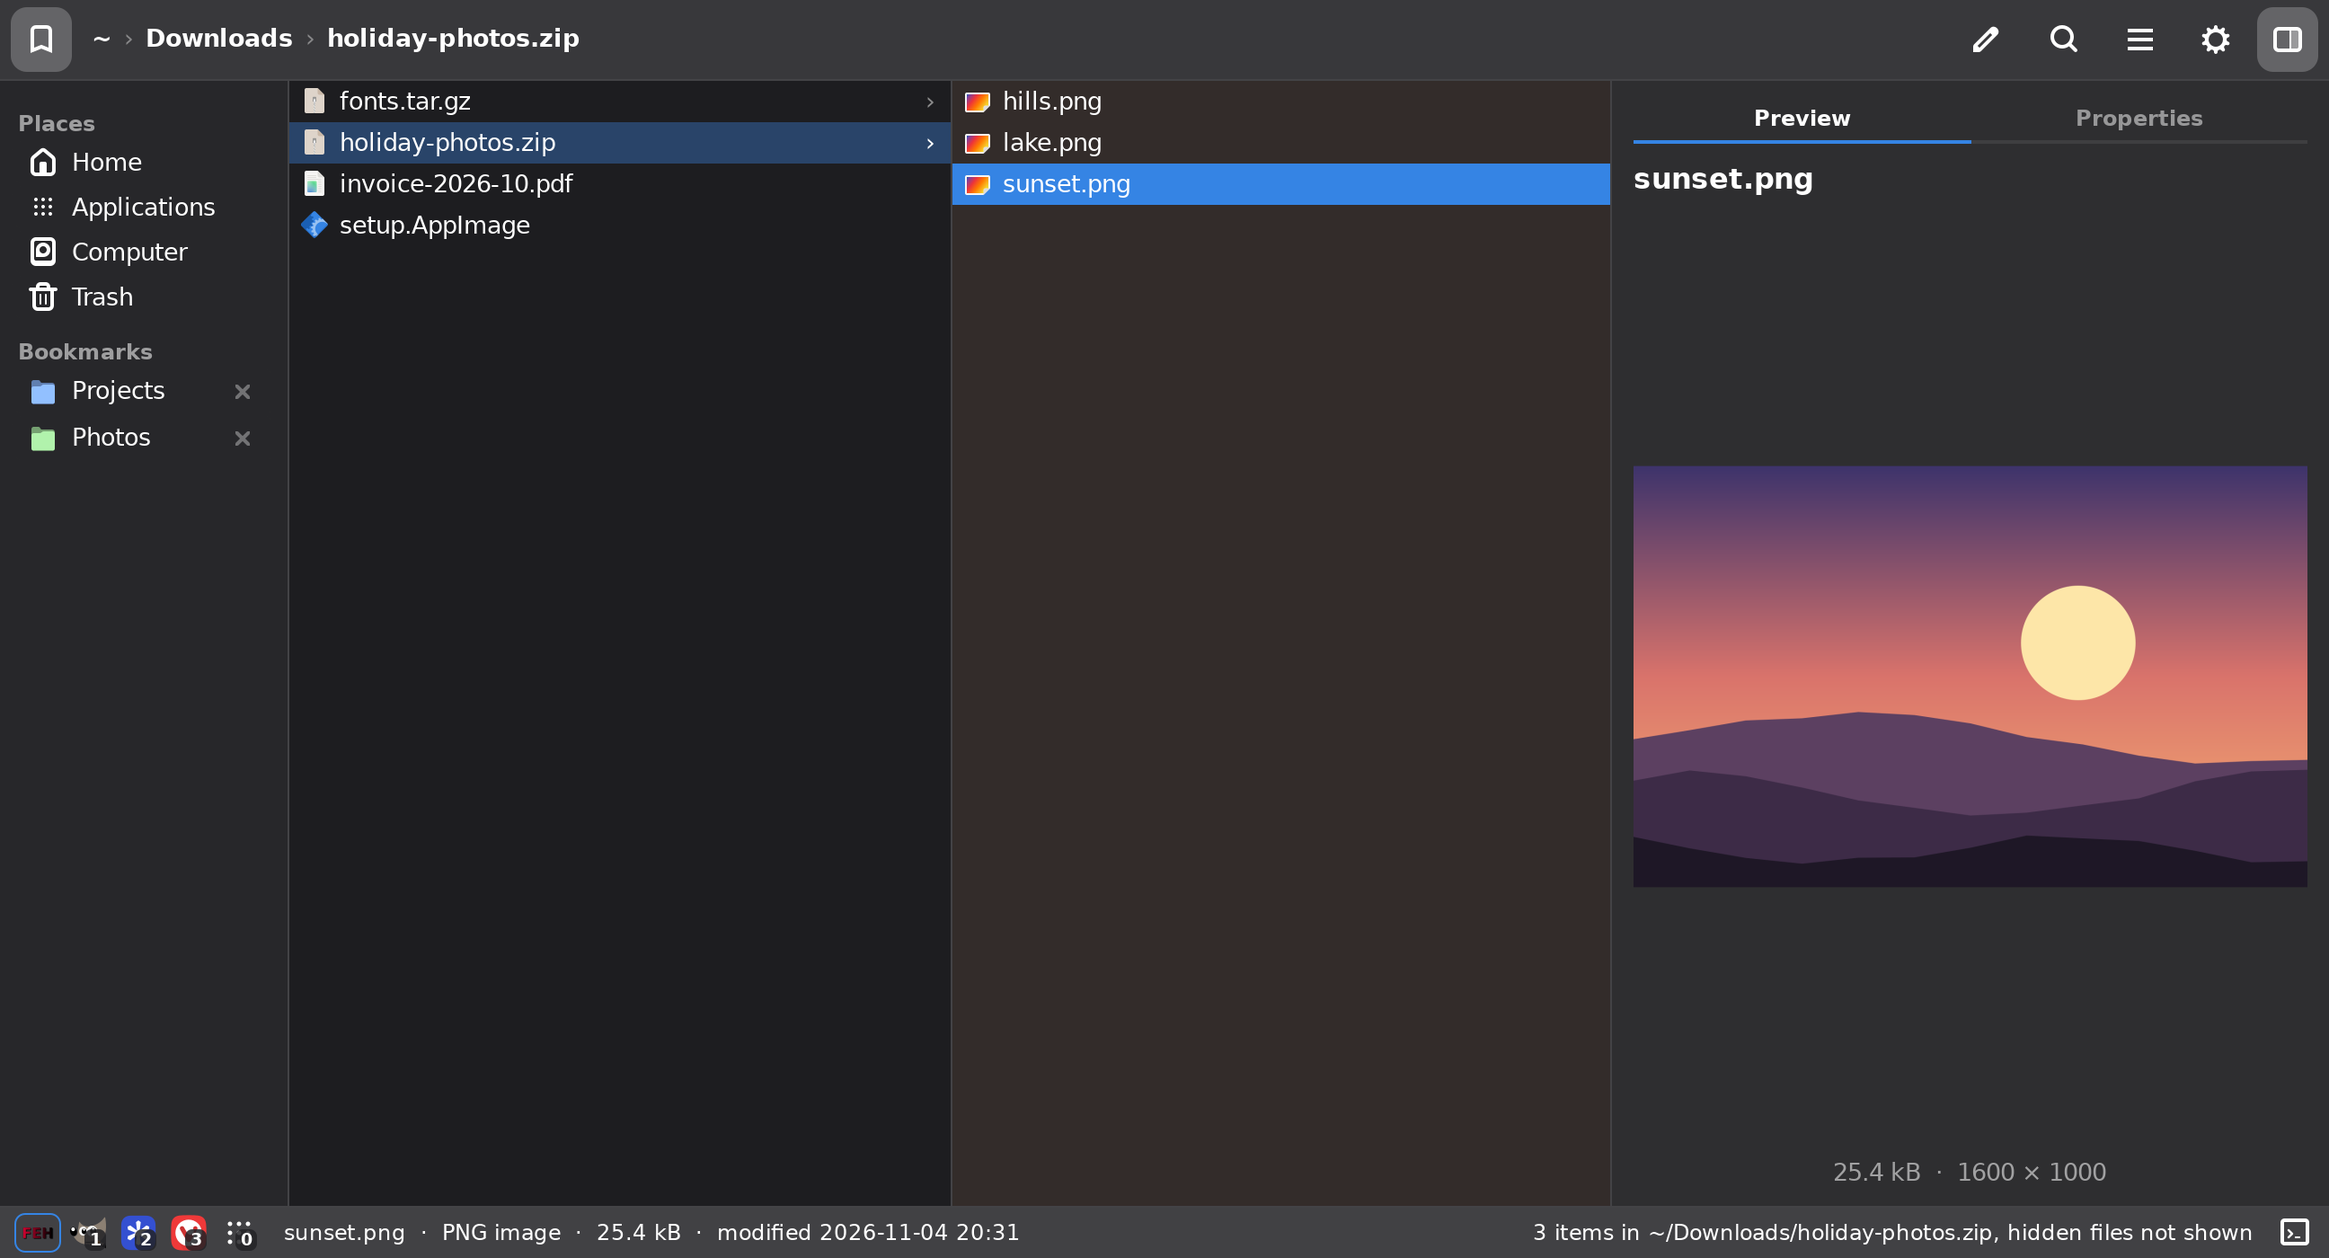
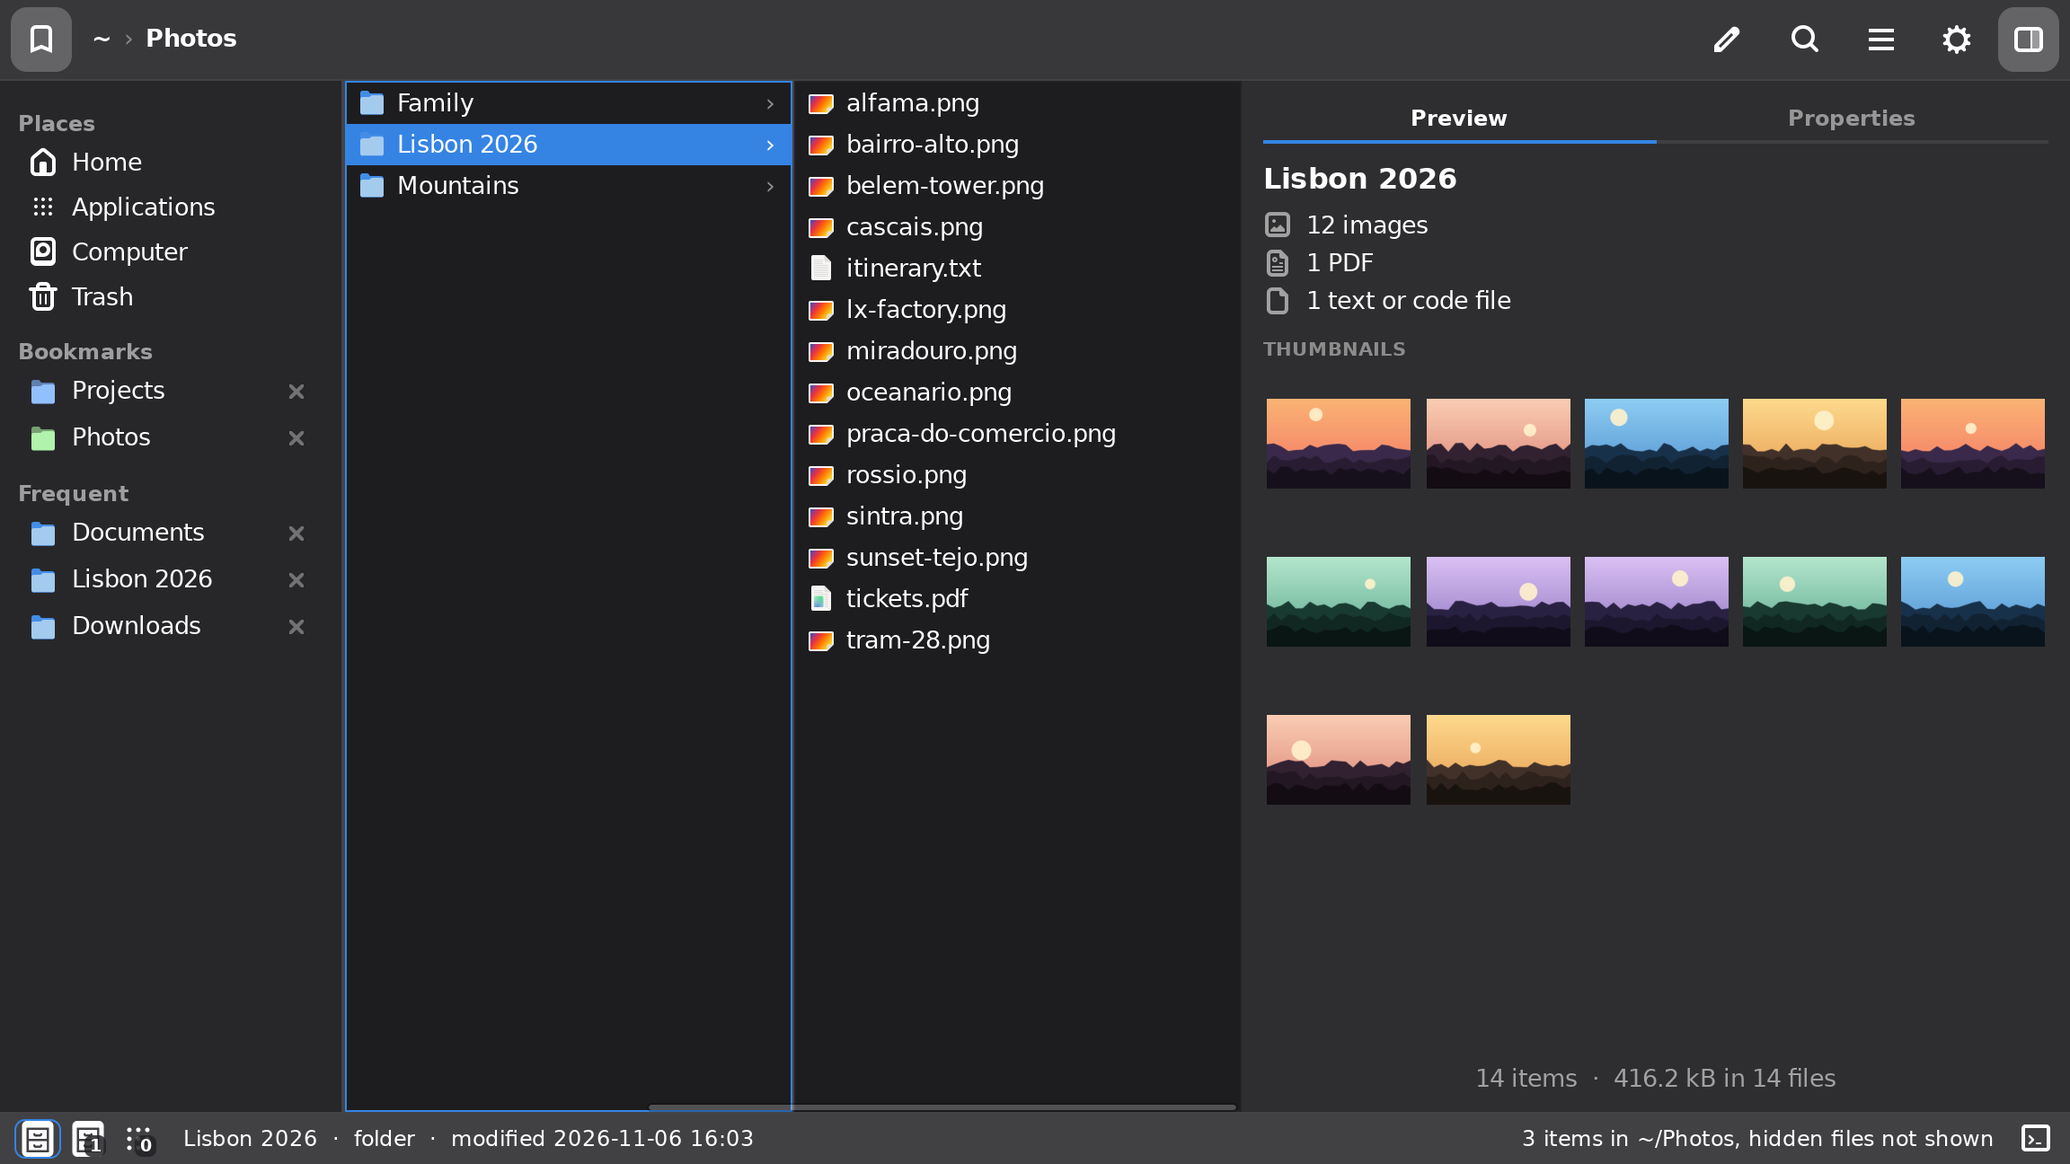
Columns keep a fixed width; the preview takes the rest of the window
Instead of fitting up to N columns to the window (which switched between
three and two panels as the selection moved between folders and files),
every column has the same fixed width and the preview gets the rest:
large near the top of a tree, narrower deeper down. The column area is
always a whole number of columns; when the preview would get narrower
than its minimum, the columns scroll sideways. With the preview hidden,
the space after the columns stays empty.

Dragging the line before the preview sets that minimum (preview_min,
300 px by default, 200 at least): the line follows the pointer while
dragging and settles on whole columns on release. The "Fit to the
window" and "At most N panels" options and the saved preview width are
gone.

The README screenshot is new: a folder preview with its thumbnails, the
Frequent list and the outlined focused column.

diff --git a/qfmlib/app.py b/qfmlib/app.py
@@ -11,7 +11,7 @@ from gi.repository import Gdk, Gio, GLib, Gtk, Pango  # noqa: E402
 
 from . import actions, archive, commands, fm1, media, style, trash  # noqa: E402
 from .fileops import FileOps  # noqa: E402
-from .columns import APPLICATIONS, HOME, Entry, MillerView, describe, git_branch, human_date, human_size, short_path  # noqa: E402
+from .columns import APPLICATIONS, HOME, Entry, MillerView, column_width, describe, git_branch, human_date, human_size, short_path  # noqa: E402
 from .preview import GRID_LIMIT, Preview  # noqa: E402
 from .promptbar import ProgressArea, PromptBar, complete_folder, matches_hint  # noqa: E402
 from .keyspane import KeysPane  # noqa: E402
@@ -21,6 +21,8 @@ from .store import COLORS, Store  # noqa: E402
 APP_ID = "io.github.davidnsousa.qfm"
 FREQUENT_COUNT = 5   # folders listed under Frequent in the sidebar
 PREVIEW_DELAY = 80   # ms the selection must settle before the preview loads
+SIDE_MIN = 200       # px: the narrowest the preview can be dragged (options["preview_min"])
+HANDLE = 6           # px: the grab strip just inside the preview's left edge
 FILTER_HINT = "Type to filter this column  ·  Enter: search all folders below  ·  ↓: go to the matches  ·  Esc: close"
 PATH_HINT = "Type a path  ·  Tab: complete a folder name  ·  Enter: go there  ·  Esc: back"
 # Keys that open the context menu besides Menu and Shift+F10: newer Lenovo (and other)
@@ -79,6 +81,88 @@ def icon_button(icon_name, tooltip, toggle=False):
     button.set_relief(Gtk.ReliefStyle.NONE)
     button.set_can_focus(False)
     return button
+
+
+class ColumnsAndSide(Gtk.Box):
+    """The columns, then the side panel (preview, search, Options…). The columns get the width
+    they need, in whole columns, while the side panel keeps at least options["preview_min"];
+    past that they scroll. The side panel takes the rest. Hidden, it leaves the rest empty.
+    Dragging the line between them sets preview_min: while dragging the line follows the
+    pointer, and on release it settles on whole columns."""
+
+    def __init__(self, view, side, store):
+        super().__init__()
+        self.view, self.side, self.store = view, side, store
+        self.options = store.options
+        self.dragging = False
+        self.pack_start(view, False, False, 0)
+        self.pack_start(side, False, False, 0)
+        self.handle = Gtk.EventBox(visible_window=True, tooltip_text="Drag to change the preview's width")
+        self.handle.add_events(Gdk.EventMask.BUTTON_PRESS_MASK | Gdk.EventMask.BUTTON_RELEASE_MASK
+                               | Gdk.EventMask.BUTTON1_MOTION_MASK)
+        self.handle.connect("realize", lambda h: h.get_window().set_cursor(
+            Gdk.Cursor.new_from_name(h.get_display(), "col-resize")))
+        self.handle.connect("button-press-event", self._on_press)
+        self.handle.connect("motion-notify-event", self._on_motion)
+        self.handle.connect("button-release-event", self._on_release)
+        self.pack_start(self.handle, False, False, 0)
+        side.connect("notify::visible", lambda side, _: self.handle.set_visible(side.get_visible()))
+
+    def _preview_min(self, width):
+        return max(SIDE_MIN, min(int(self.options["preview_min"]),
+                                 width - column_width(self.options)))
+
+    def do_get_preferred_width(self):
+        smallest = column_width(self.options) + (SIDE_MIN if self.side.get_visible() else 0)
+        return smallest, smallest
+
+    def do_size_allocate(self, alloc):
+        Gtk.Widget.set_allocation(self, alloc)
+        step = column_width(self.options)
+        shown = self.side.get_visible()
+        room = alloc.width - (self._preview_min(alloc.width) if shown else 0)
+        _, wanted = self.view.get_preferred_width()
+        width = min(wanted, room if self.dragging else max(step, room // step * step))
+        part = Gdk.Rectangle()
+        part.x, part.y, part.width, part.height = alloc.x, alloc.y, width, alloc.height
+        self.view.size_allocate(part)
+        if shown:
+            part = Gdk.Rectangle()
+            part.x, part.y = alloc.x + width, alloc.y
+            part.width, part.height = alloc.width - width, alloc.height
+            self.side.size_allocate(part)
+            part = Gdk.Rectangle()
+            part.x, part.y, part.width, part.height = alloc.x + width, alloc.y, HANDLE, alloc.height
+            self.handle.size_allocate(part)
+
+    def do_draw(self, cr):
+        for child in self.get_children():   # Gtk.Box's own drawing expects its own allocating
+            self.propagate_draw(child, cr)
+        return False
+
+    def _on_press(self, handle, event):
+        if event.button != 1:
+            return False
+        self.dragging = True
+        return True
+
+    def _on_motion(self, handle, event):
+        if not self.dragging:
+            return False
+        alloc = self.get_allocation()
+        x = handle.get_allocation().x - alloc.x + event.x      # the pointer, from our left edge
+        self.options["preview_min"] = max(SIDE_MIN, min(int(alloc.width - x),
+                                                        alloc.width - column_width(self.options)))
+        self.queue_resize()
+        return True
+
+    def _on_release(self, handle, event):
+        if not self.dragging:
+            return False
+        self.dragging = False
+        self.store.save_options()
+        self.queue_resize()
+        return True
 
 
 class Window(Gtk.ApplicationWindow):
@@ -190,15 +274,11 @@ class Window(Gtk.ApplicationWindow):
         self.side.add_named(self._options_page(), "options")
         self.side.add_named(self._actions_page(), "actions")
         self.side.add_named(self._commands_page(), "commands")
-        self.inner = Gtk.Paned()
-        self.inner.pack1(self.view, True, False)
-        self.inner.pack2(self.side, False, False)
+        self.inner = ColumnsAndSide(self.view, self.side, self.store)
         self.outer = Gtk.Paned()
         self.outer.pack1(self.sidebar_scroller, False, False)
         self.outer.pack2(self.inner, True, False)
         self.outer.set_position(options["sidebar_width"])
-        self._pane_placed = False
-        self.inner.connect("size-allocate", self._place_pane)
 
         # status bar: what's selected | messages / item count
         status = Gtk.Box(spacing=12)
@@ -241,11 +321,6 @@ class Window(Gtk.ApplicationWindow):
         self._quiet_toggles = False
         self.sidebar_scroller.set_visible(self.options["sidebar"])
         self.side.set_visible(self.options["preview"])
-
-    def _place_pane(self, paned, alloc):
-        if not self._pane_placed and alloc.width > 1:
-            self._pane_placed = True
-            paned.set_position(max(200, alloc.width - self.options["preview_width"]))
 
     # -- navigation ----------------------------------------------------------
 
@@ -1267,19 +1342,6 @@ class Window(Gtk.ApplicationWindow):
             check = Gtk.CheckButton(label=label, active=key in self.options["details"])
             check.connect("toggled", lambda b, k=key: self._toggle_detail(k, b.get_active()))
             box.pack_start(check, False, False, 0)
-        heading("Panels")
-        fit = Gtk.CheckButton(label="Fit to the window, no scrolling", active=self.options["fit_columns"])
-        most = Gtk.Box(spacing=6, margin_start=24, sensitive=self.options["fit_columns"])
-        most.pack_start(Gtk.Label(label="At most"), False, False, 0)
-        count = Gtk.SpinButton.new_with_range(1, 9, 1)
-        count.set_value(self.options["max_columns"])
-        count.connect("value-changed", lambda b: self._set_option("max_columns", b.get_value_as_int()))
-        most.pack_start(count, False, False, 0)
-        most.pack_start(Gtk.Label(label="panels"), False, False, 0)
-        fit.connect("toggled", lambda b: (most.set_sensitive(b.get_active()),
-                                          self._set_option("fit_columns", b.get_active())))
-        box.pack_start(fit, False, False, 0)
-        box.pack_start(most, False, False, 0)
         heading("Show")
         self.hidden_check = Gtk.CheckButton(label="Hidden files (Ctrl+H)", active=self.options["show_hidden"])
         self.hidden_check.connect("toggled", lambda b: self._set_option("show_hidden", b.get_active()))
@@ -1584,8 +1646,6 @@ class Window(Gtk.ApplicationWindow):
         self.options.update(window_width=width, window_height=height)
         if self.sidebar_scroller.get_visible():
             self.options["sidebar_width"] = self.outer.get_position()
-        if self.side.get_visible():
-            self.options["preview_width"] = self.inner.get_allocated_width() - self.inner.get_position()
         self.store.save_options()
         return False
 

diff --git a/qfmlib/columns.py b/qfmlib/columns.py
@@ -191,6 +191,10 @@ def sort_entries(items, field, descending, folder_size=None):
 class Column(Gtk.Overlay):
     """One folder's list. Talks to its MillerView for everything beyond itself."""
 
+    def do_get_preferred_width(self):
+        width = column_width(self.view.options)   # every column the same width, whatever's in it
+        return width, width
+
     def __init__(self, view, path, archive_path=None, inner=None):
         super().__init__()
         self.view = view
@@ -471,7 +475,7 @@ class Column(Gtk.Overlay):
         shown = self.view.options["details"]
         for key, column in self.details.items():
             column.set_visible(key in shown)
-        self.set_size_request(-1 if self.view.fit else column_width(self.view.options), -1)
+        self.set_size_request(column_width(self.view.options), -1)
         self._size_folders()
 
     def icon_for(self, e):
@@ -817,7 +821,8 @@ class MillerView(Gtk.ScrolledWindow):
 
     def __init__(self, window):
         super().__init__(hscrollbar_policy=Gtk.PolicyType.AUTOMATIC,
-                         vscrollbar_policy=Gtk.PolicyType.NEVER)
+                         vscrollbar_policy=Gtk.PolicyType.NEVER,
+                         propagate_natural_width=True)   # asks for all its columns' width
         self.window = window
         self.store = window.store
         self.options = window.store.options
@@ -833,8 +838,7 @@ class MillerView(Gtk.ScrolledWindow):
         self.drag_outcome = None  # during a drag out: "failed" (cancelled/refused), "here" (dropped onto qfm)
         self.box = Gtk.Box()
         self.add(self.box)
-        # Stands in for the next column while the focused one has none (a file is
-        # selected), so the row keeps its width and nothing slides while moving up/down
+        # Stands in for a selected folder's column until it opens (see _layout)
         self.placeholder = Gtk.Box()
         self.placeholder.pack_start(Gtk.Separator(orientation=Gtk.Orientation.VERTICAL), False, False, 0)
         self.placeholder_space = Gtk.Box()
@@ -885,40 +889,19 @@ class MillerView(Gtk.ScrolledWindow):
         """The rows' pictures: 16 px, or 40 with thumbnails (big enough to see what's in them)."""
         return 40 if self.options["thumbnails"] else 16
 
-    @property
-    def fit(self):
-        return bool(self.options["fit_columns"])
-
     def _layout(self):
-        """Scrolling: every column at its width, the placeholder after the focused one when it
-        has no next column. Fitting: the focused column, the columns before it and the slot after
-        it, at most max_columns, splitting the width; the others hidden until navigated to. The
-        slot (the next column, or the placeholder while a folder's column is about to open) is
-        counted even when empty, so the columns before don't change when moving between files and
-        folders: with a file selected, they just share the width."""
-        fit = self.fit
-        self.set_policy(Gtk.PolicyType.NEVER if fit else Gtk.PolicyType.AUTOMATIC, Gtk.PolicyType.NEVER)
-        self.box.set_homogeneous(fit)
+        """Every column at its width, scrolling sideways when they don't fit (the preview takes
+        the rest of the window, see app.py). While a selected folder's column is about to open,
+        the placeholder holds its place, so the preview doesn't widen and shrink back."""
         focused, has_next = self.focused_column, self.focus_index + 1 < len(self.columns)
-        if fit:
-            most = max(1, int(self.options["max_columns"]))
-            opening = (focused is not None and focused.selected is not None
-                       and focused.selected.browsable and not focused.selected.container
-                       and len(focused.marked) <= 1)
-            slot = most > 1 and (has_next or opening)
-            first = max(0, self.focus_index + (2 if most > 1 else 1) - most)
-            last = self.focus_index + 1 if slot else self.focus_index
-        else:
-            slot, first, last = focused is not None, 0, len(self.columns)
-        for prop in ("expand", "fill"):
-            self.box.child_set_property(self.placeholder, prop, fit)
+        opening = (focused is not None and focused.selected is not None
+                   and focused.selected.browsable and not focused.selected.container
+                   and len(focused.marked) <= 1)
         for i, column in enumerate(self.columns):
-            for prop in ("expand", "fill"):
-                self.box.child_set_property(column, prop, fit)
-            column.set_visible(first <= i <= last)
-            column.separator.set_visible(i > first)
-        self.placeholder_space.set_size_request(-1 if fit else column_width(self.options), -1)
-        self.placeholder.set_visible(slot and not has_next)
+            column.separator.set_visible(i > 0)
+        self.placeholder_space.set_size_request(column_width(self.options), -1)
+        self.placeholder.set_visible(opening and not has_next)
+        self.queue_resize()
 
     def go_to(self, path, select=None):
         """Show the folder path (columns from ~ or / down to it), focused.
@@ -1091,7 +1074,7 @@ class MillerView(Gtk.ScrolledWindow):
     def _reveal(self):
         """Scroll so the target column (and the one after it) are in view."""
         column = self._reveal_target
-        if self.fit or column not in self.columns:
+        if column not in self.columns:
             return False
         alloc = column.get_allocation()
         if alloc.width <= 1:

diff --git a/qfmlib/store.py b/qfmlib/store.py
@@ -25,8 +25,6 @@ DEFAULT_OPTIONS = {
     "sort": "name",          # name, size, modified, type
     "descending": False,
     "details": [],           # extra columns shown: type, size, modified, created
-    "fit_columns": True,     # the shown columns split the width (at most max_columns); False: they scroll
-    "max_columns": 3,
     "thumbnails": False,     # pictures of images, PDFs, models… in the columns (bigger rows)
     "preview": True,
     "folder_thumbnails": True,  # the preview of a folder shows thumbnails of what's in it
@@ -36,7 +34,7 @@ DEFAULT_OPTIONS = {
     "window_width": 1280,
     "window_height": 520,
     "sidebar_width": 190,
-    "preview_width": 380,
+    "preview_min": 300,        # px the preview keeps when the columns need room (drag the line before it)
     "archive_format": ".zip",  # last format picked in Compress…
     "window_mode": "dialog",   # dialog: floats, Esc closes, closes after opening or a drag out; normal: a regular window
     "default_fm": False,       # qfm opens folders and answers "Show in folder" (see fm1.py)

diff --git a/main.py b/main.py
@@ -11,7 +11,7 @@ usage:
 
 install / update: run ./install.sh from the source folder
 
-Options (gear button, Ctrl+,): sorting, columns and panels; a quick dialog (floats, Esc
+Options (gear button, Ctrl+,): sorting, columns; a quick dialog (floats, Esc
 closes it, closes after opening a file or dragging files out to another app) or a normal
 window; and qfm as the default file manager (folders, "Show in folder").
 Questions (names, confirmations, folders, apps) appear in a bar above the status bar.

diff --git a/qfmlib/keys.py b/qfmlib/keys.py
@@ -67,7 +67,7 @@ SHORTCUTS = [
         ("Ctrl+R / F5", "reload"),
         ("Ctrl+I", "preview: switch between the Preview and Properties tabs"),
         ("F6", "switch between the columns and the open side panel (it stays open; Esc closes it)"),
-        ("Ctrl+,", "options: sorting, columns, panels, window…"),
+        ("Ctrl+,", "options: sorting, columns, window…"),
         ("F1", "this list"),
     ]),
     ("Video and audio (in the preview)", [

diff --git a/README.md b/README.md
@@ -7,9 +7,10 @@ A keyboard-driven file manager for Linux (GTK3) with Miller columns.
 ## Features
 
 **Browsing**
-- Miller columns that fit the window: up to three panels (configurable) split the width,
-  with no horizontal scrolling; earlier ones are hidden and come back as you go left.
-  Scrolling columns are an option.
+- Miller columns of a fixed width. The preview takes the rest of the window, so it is
+  large near the top of a tree and narrower deeper down, but never narrower than a minimum
+  width; past that, the columns scroll sideways. Drag the line before the preview to set
+  that minimum. With the preview hidden, the space after the columns stays empty.
 - Opens as a floating window in the centre of the screen: Esc closes it, and it closes
   after opening something. It can also run as a normal window.
 - Places (Home, Applications, Computer, Trash), removable drives, and bookmarks (× or
